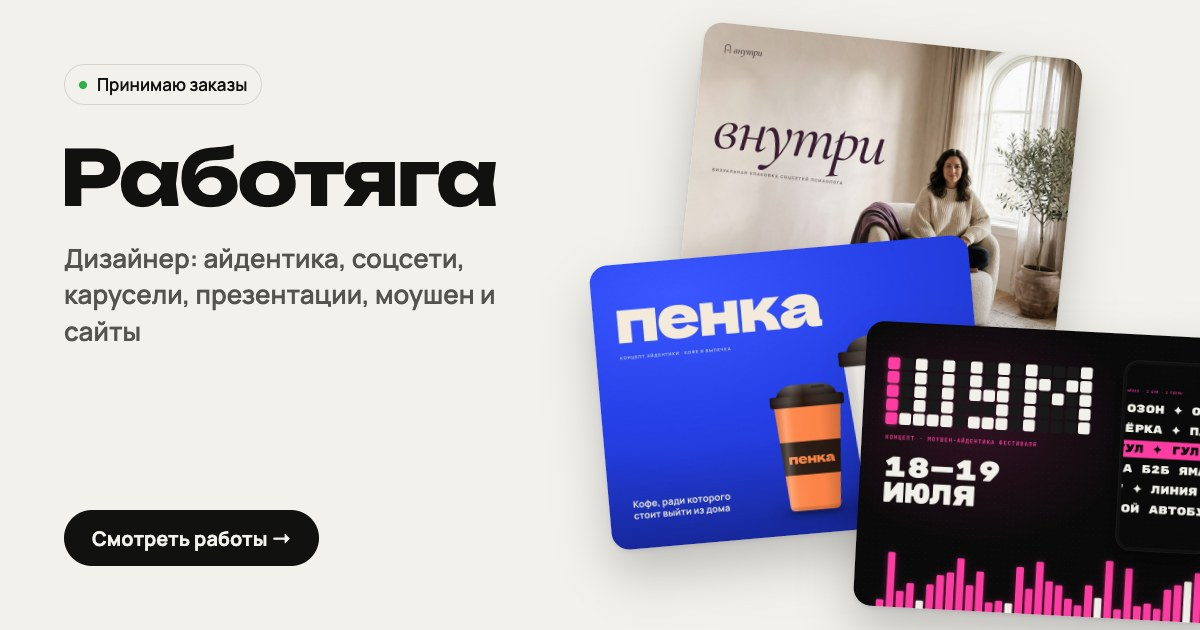
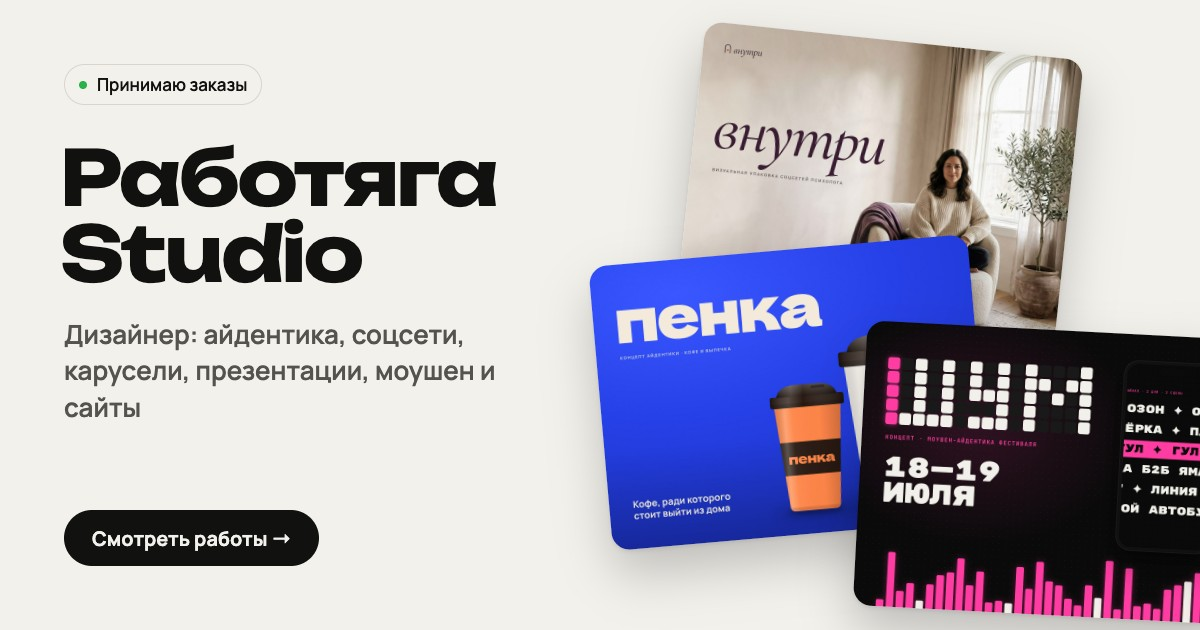
Название «Работяга Studio» и новый Telegram @rabotyaga_studio

Changed region(s): [[0.0308, 0.3317, 0.4317, 0.4825], [0.0308, 0.5127, 0.4317, 0.6032], [0.0308, 0.6333, 0.1233, 0.6635]]

diff --git a/index.html b/index.html
@@ -4,10 +4,10 @@
   <meta charset="utf-8">
   <meta name="viewport" content="width=device-width, initial-scale=1">
   <!-- Эти теги читает Threads/Telegram для превью ссылки, JS тут не помогает — правим руками -->
-  <title>Работяга — дизайнер</title>
+  <title>Работяга Studio — дизайнер</title>
   <meta name="description" content="Дизайнер: айдентика, соцсети, карусели, презентации, моушен и сайты.">
   <meta property="og:type" content="website">
-  <meta property="og:title" content="Работяга — дизайнер">
+  <meta property="og:title" content="Работяга Studio — дизайнер">
   <meta property="og:description" content="Айдентика, соцсети, карусели, презентации, моушен и сайты. Пишите в Telegram.">
   <meta property="og:image" content="https://rabotyagastudio.github.io/og.jpg">
   <meta property="og:url" content="https://rabotyagastudio.github.io/">

diff --git a/style.css b/style.css
@@ -207,6 +207,8 @@ h1, h2, h3 {
 .contact p { max-width: 480px; margin-top: 20px; font-size: 18px; color: #A9A6A0; }
 .contact .btn-xl { margin-top: 40px; background: var(--accent); color: var(--ink); }
 .contact .btn-xl:hover { background: var(--bg); }
+/* Ник в кнопке не переносится — на узких экранах ужимаем, чтобы влез в одну строку */
+@media (max-width: 640px) { .contact .btn-xl { padding: 22px 24px; font-size: min(18px, 4.3vw); } }
 .foot { display: flex; justify-content: space-between; padding: 32px var(--pad); color: var(--muted); font-size: 14px; }
 
 /* Кейс */

diff --git a/data.js b/data.js
@@ -1,9 +1,9 @@
 // Всё, что меняется на сайте, — в этом файле.
 
 window.SITE = {
-  name: "Работяга",
+  name: "Работяга Studio",
   role: "дизайнер",
-  telegram: "work_prmt", // без @
+  telegram: "rabotyaga_studio", // без @
   accent: "#FF4D1A",
   status: "Принимаю заказы",
   headline: "Дизайн, после которого бизнес выглядит дороже",
